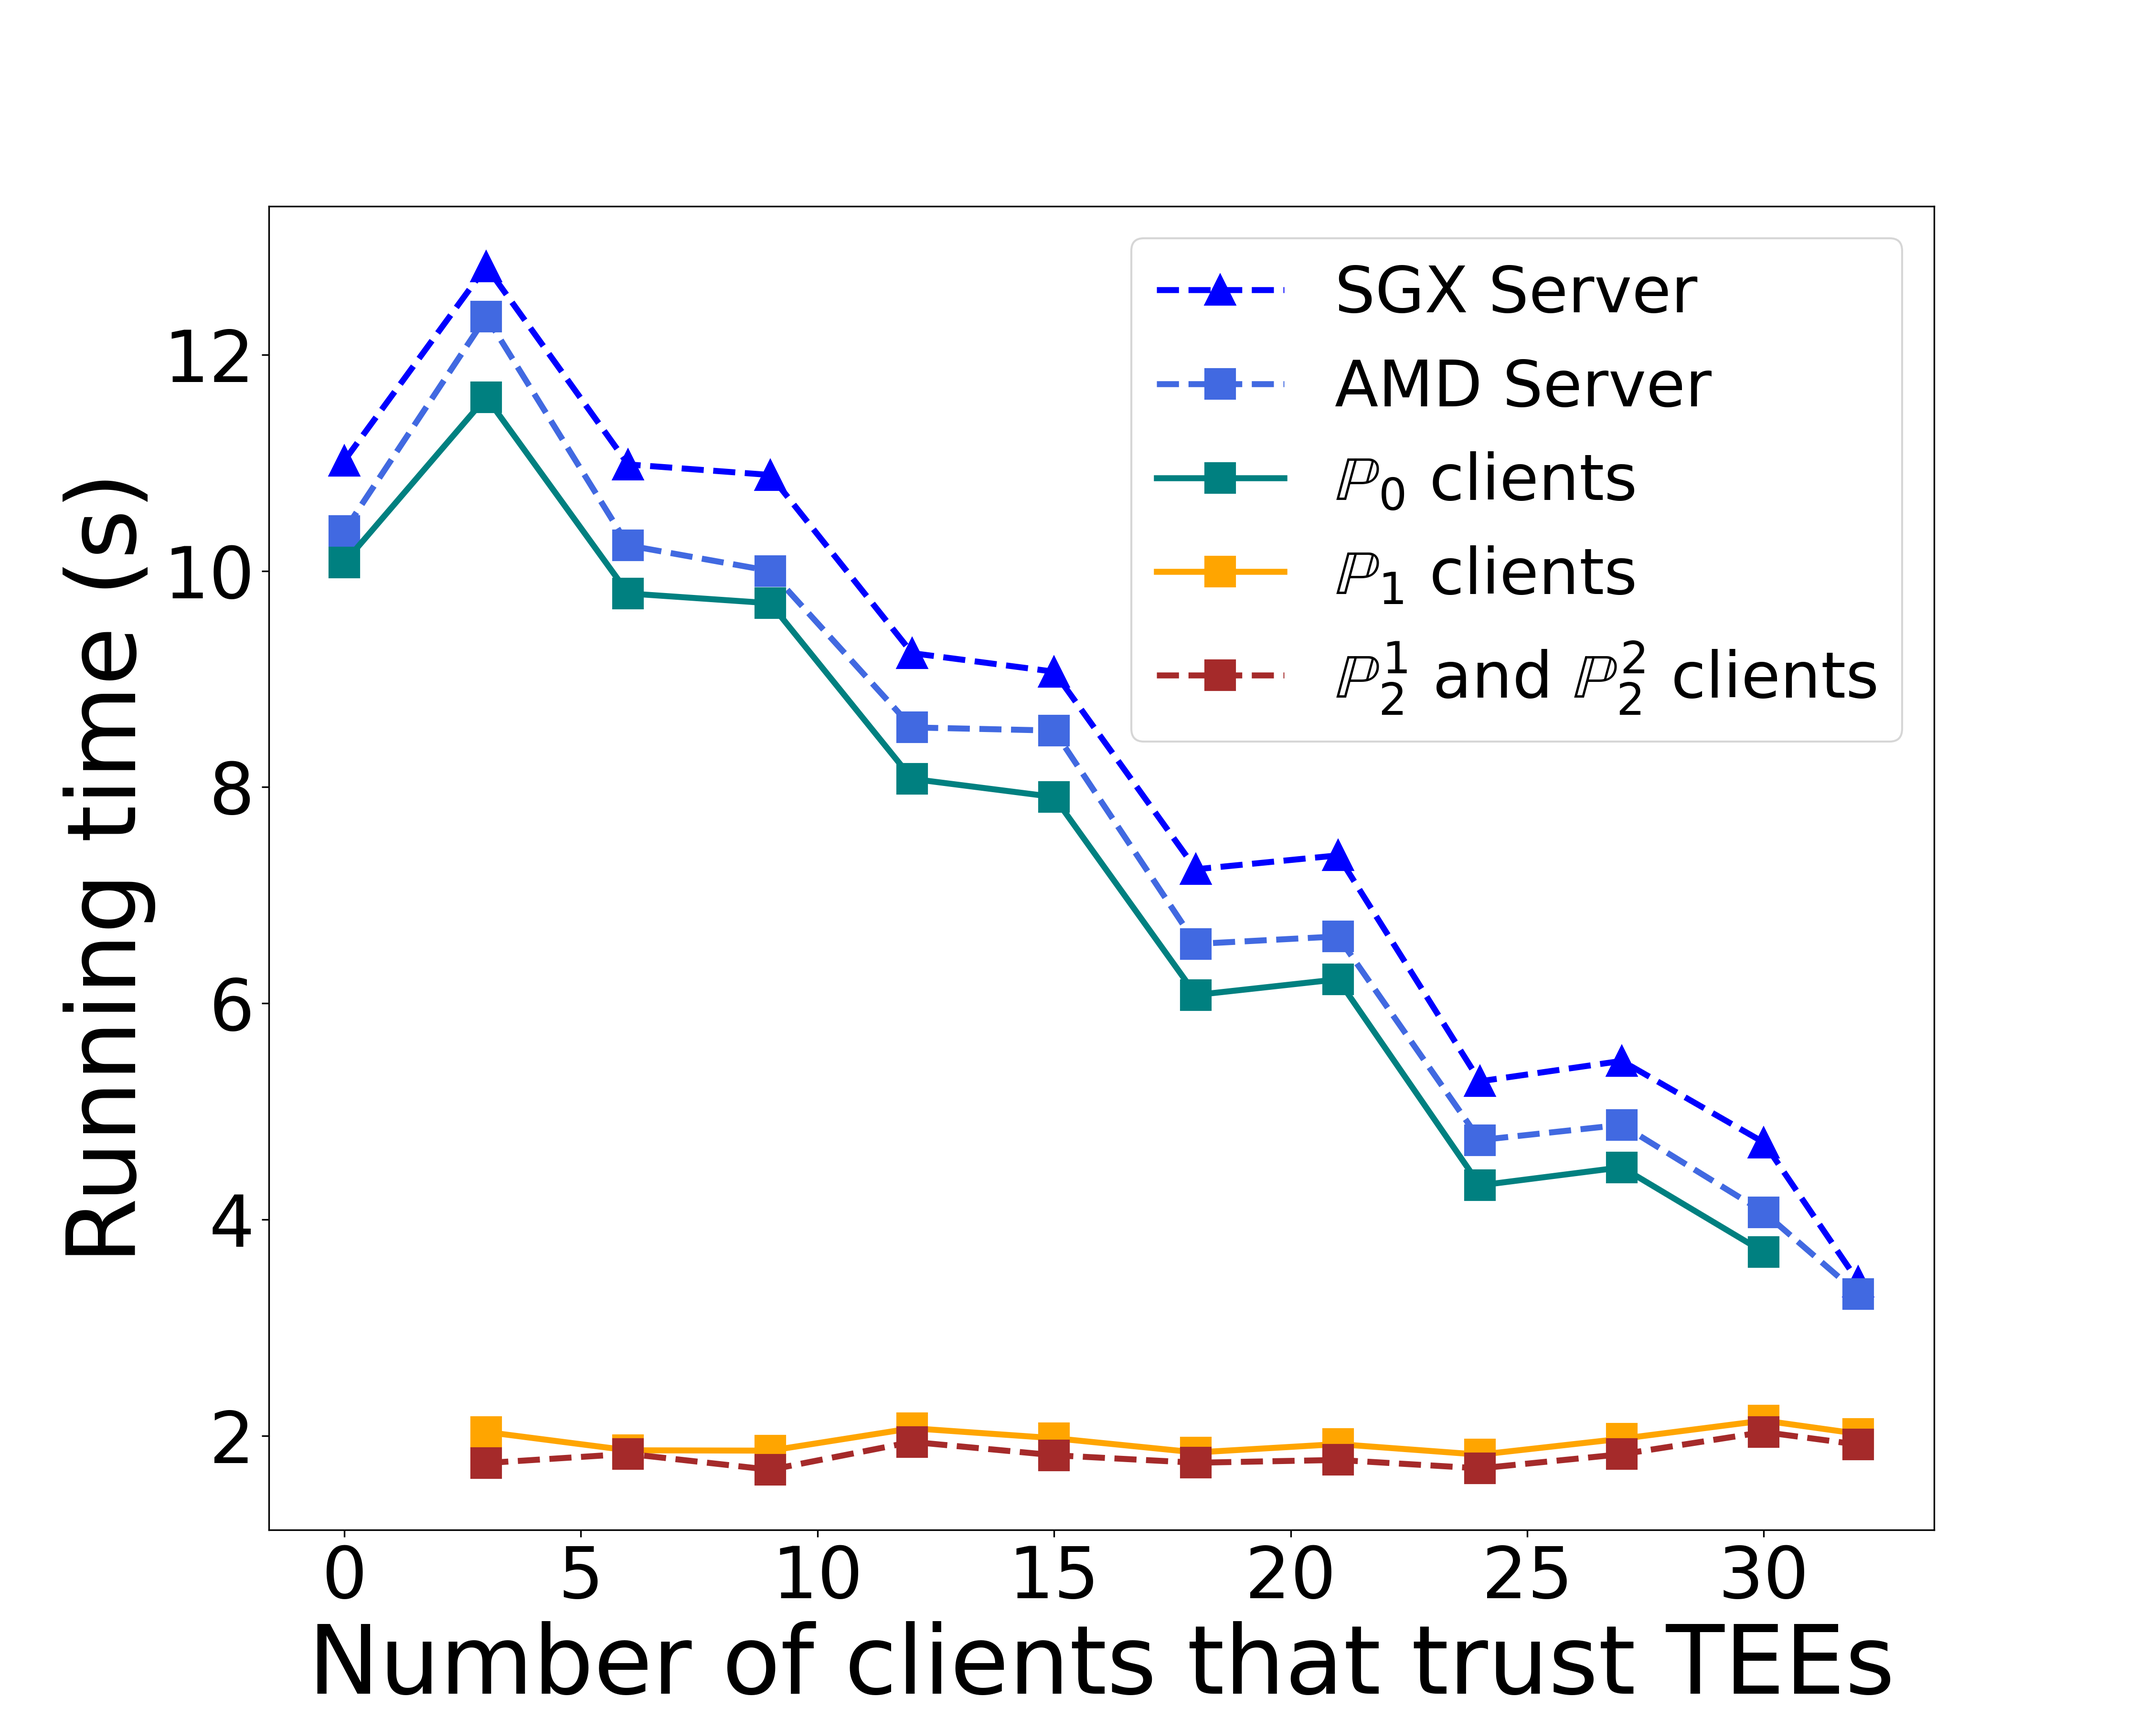
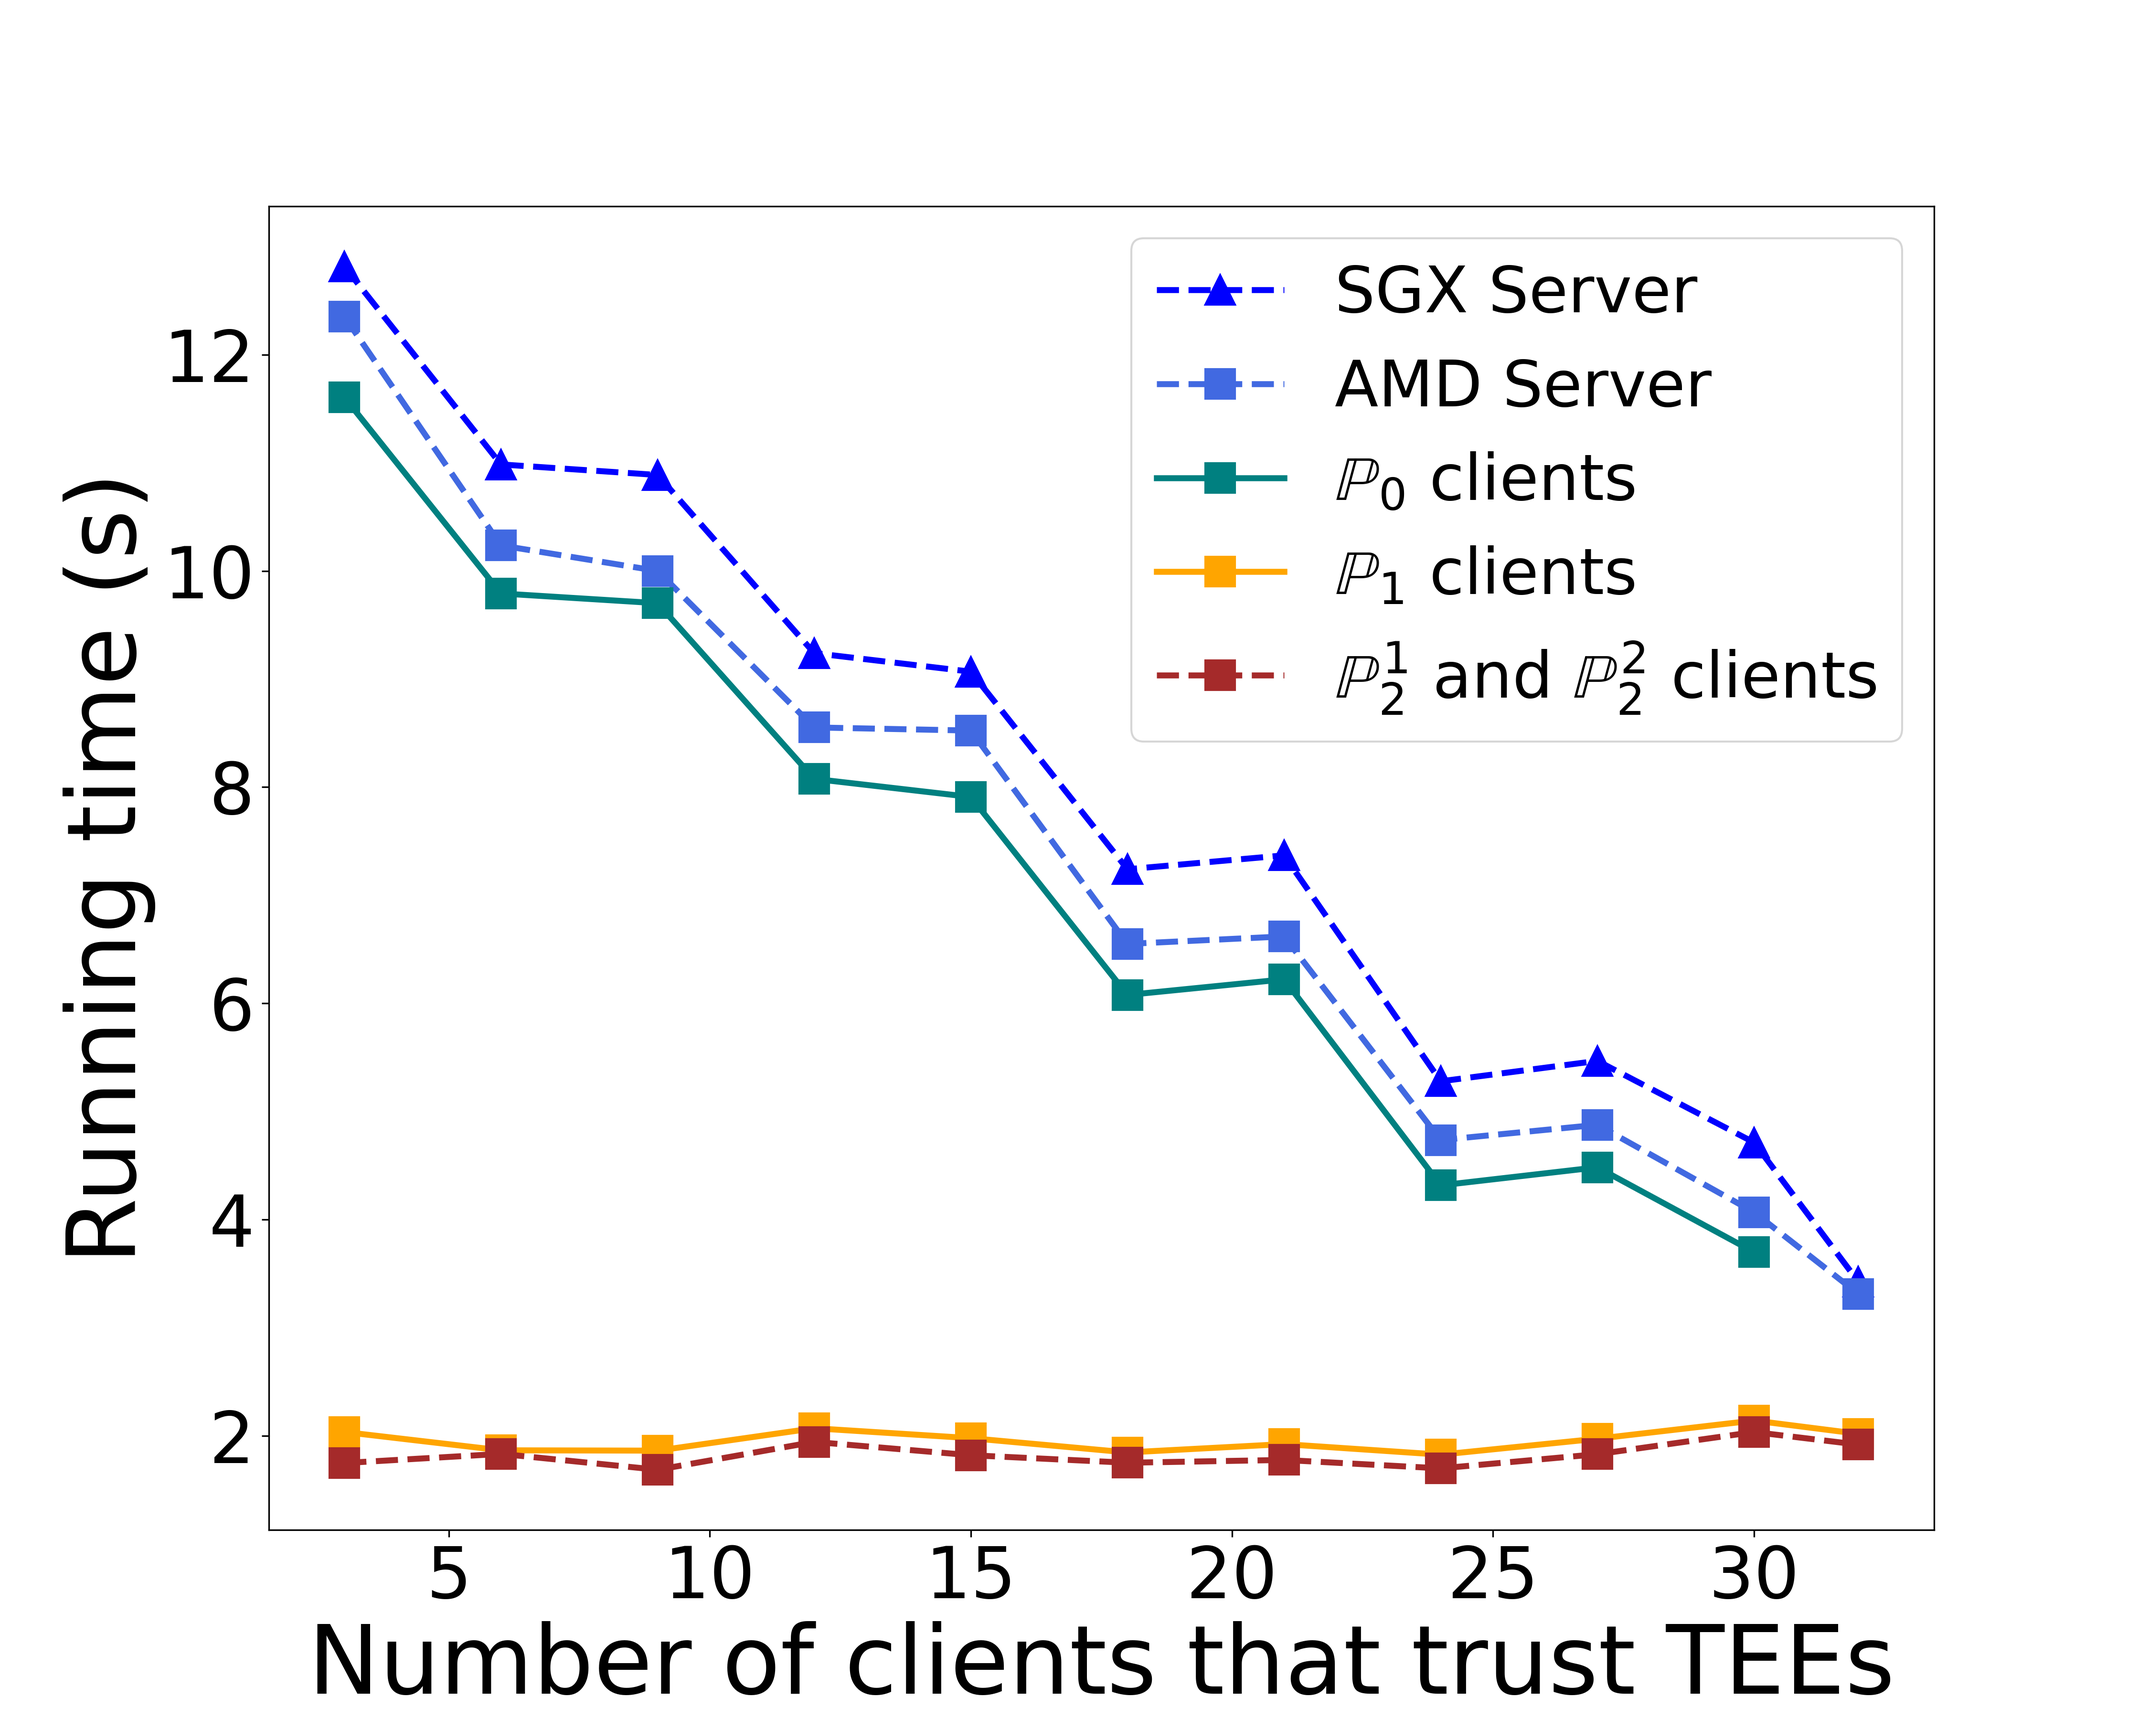
Update draw_n_trust.py

diff --git a/deployment/drawers/draw_n_trust.py b/deployment/drawers/draw_n_trust.py
@@ -15,29 +15,29 @@ if __name__ == '__main__':
         secagg = json.load(f)
     
     plt.figure(figsize=(15, 12), dpi=300)
-    n_client = [i*3 for i in range(11)]
+    n_client = [i*3 for i in range(1, 11)]
     n_client.append(32)
 
     plt.plot(n_client,
-             [prot[i][SGX_SERVER_TIME]/1000 for i in range(len(n_client))],
+             [prot[i][SGX_SERVER_TIME]/1000 for i in range(1, len(n_client)+1)],
              c='blue',
              label='SGX Server', linewidth=3.0, marker='^', markersize=15, linestyle='--')
-    print([prot[i][SGX_SERVER_TIME]/1000 for i in range(len(n_client))])
+    print([prot[i][SGX_SERVER_TIME]/1000 for i in range(1, len(n_client)+1)])
     plt.plot(n_client,
-             [prot[i][AMD_SERVER_TIME]/1000 for i in range(len(n_client))],
+             [prot[i][AMD_SERVER_TIME]/1000 for i in range(1, len(n_client)+1)],
              c='royalblue',
              label='AMD Server', linewidth=3.0, marker='s', markersize=15, linestyle='--')
     plt.plot(n_client[:-1],
-            [prot[i][NOT_TRUST_CLIENT_TIME][0]/1000 for i in range(len(n_client))][:-1],
+            [prot[i][NOT_TRUST_CLIENT_TIME][0]/1000 for i in range(1, len(n_client))],
             c='teal',
             label=r'$\mathbb{P}_0$ clients', linewidth=3.0, marker='s', markersize=15)
-    plt.plot(n_client[1:],
-            [prot[i][PARTIAL_TRUST_CLIENT_TIME][1]/1000 for i in range(len(n_client))][1:],
+    plt.plot(n_client,
+            [prot[i][PARTIAL_TRUST_CLIENT_TIME][1]/1000 for i in range(1, len(n_client)+1)],
             c='orange',
             label=r'$\mathbb{P}_1$ clients', linewidth=3.0, marker='s', markersize=15)
     # print([prot[i][PARTIAL_TRUST_CLIENT_TIME][1]/1000 for i in range(len(n_client))])
-    plt.plot(n_client[1:],
-            [(prot[i][TRUST_SGX_CLIENT_TIME][1] + prot[i][TRUST_AMD_CLIENT_TIME][1])/2000 for i in range(len(n_client))][1:],
+    plt.plot(n_client,
+            [(prot[i][TRUST_SGX_CLIENT_TIME][1] + prot[i][TRUST_AMD_CLIENT_TIME][1])/2000 for i in range(1, len(n_client)+1)],
             c='brown',
             label=r'$\mathbb{P}_2^1$ and $\mathbb{P}_2^2$ clients', linewidth=3.0, marker='s', markersize=15, linestyle='--')
 
